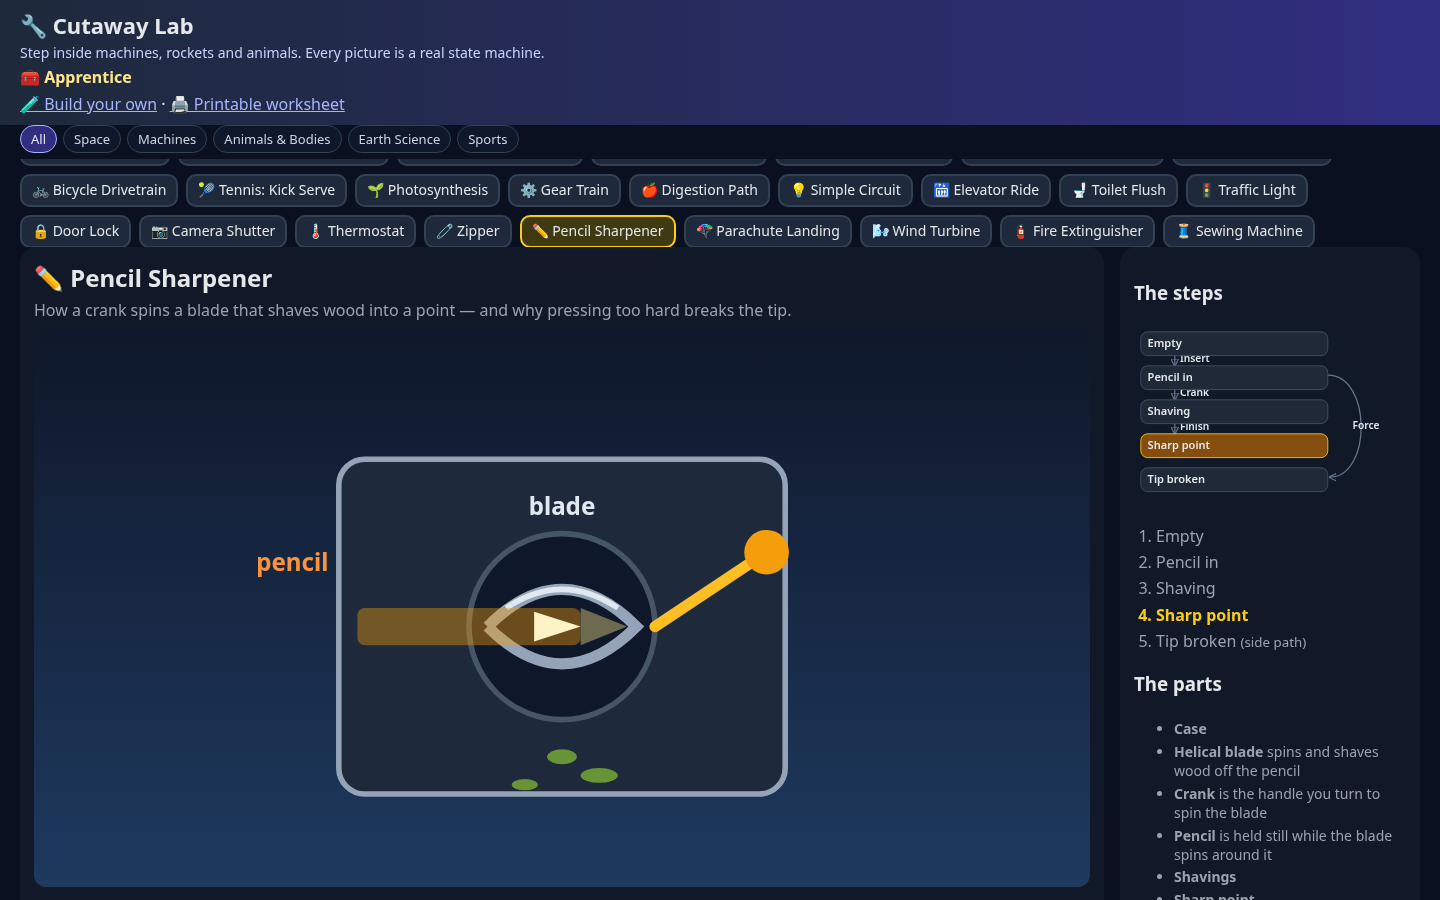
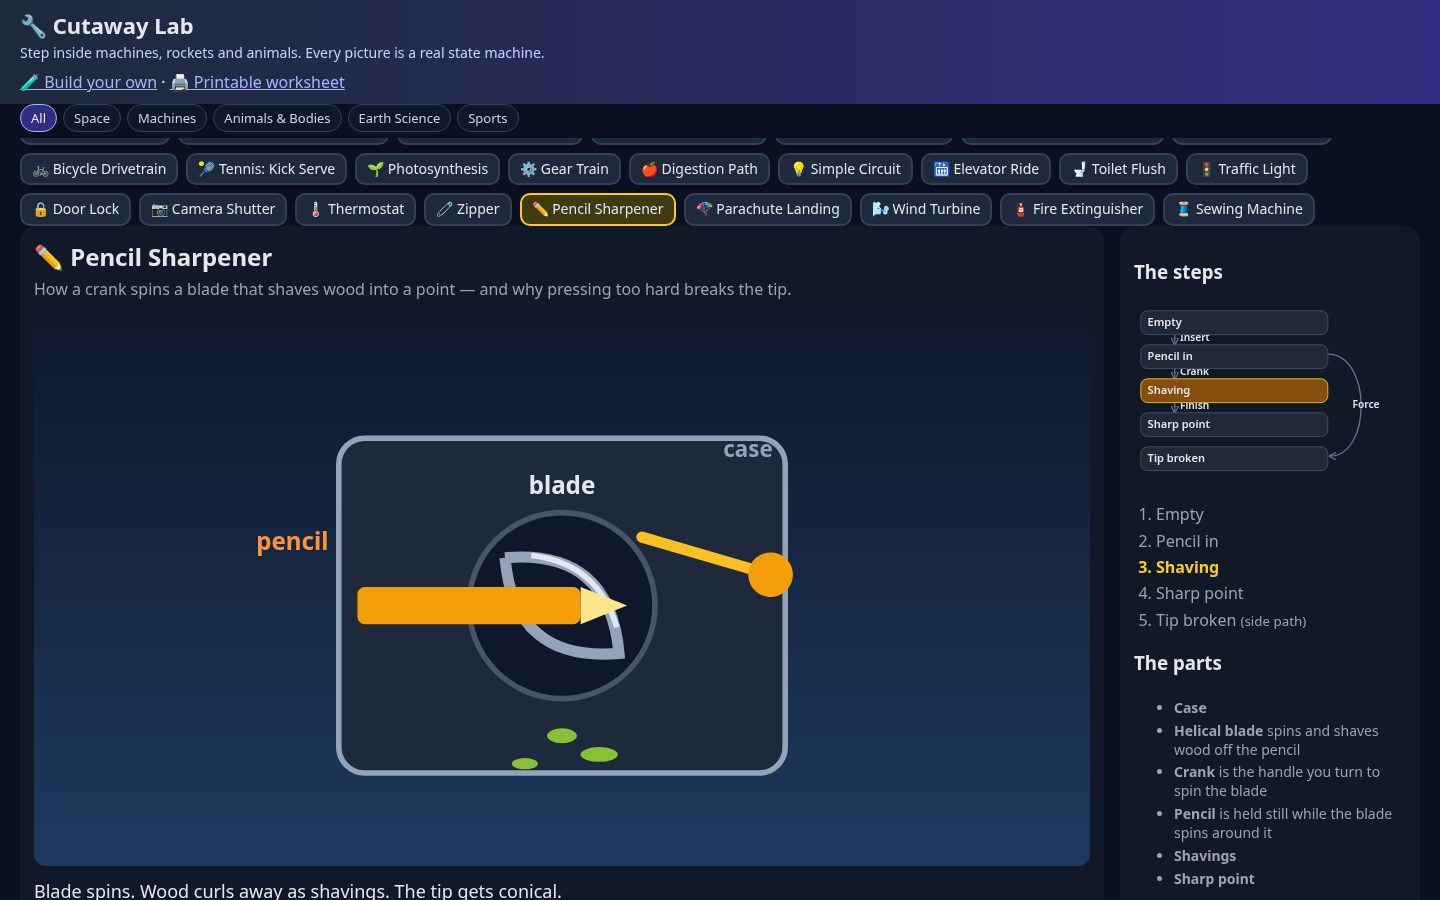
v1.0: stoplight signal + sharpener case captions

diff --git a/machines/sharpener.js b/machines/sharpener.js
@@ -5,6 +5,8 @@ export default {
   parts: [
     { id: 'case', label: 'Case',
       svg: '<rect x="80" y="70" width="240" height="180" rx="14" fill="#1e293b" stroke="#94a3b8" stroke-width="3"/><circle cx="200" cy="160" r="50" fill="#0f172a" stroke="#475569" stroke-width="3"/>' },
+    { id: 'lblCase', label: 'Case label',
+      svg: '<text x="300" y="80" text-anchor="middle" fill="#94a3b8" font-size="12" font-weight="700">case</text>' },
     { id: 'blade', label: 'Helical blade', job: 'spins and shaves wood off the pencil',
       svg: '<path d="M160 160 Q200 120 240 160 Q200 200 160 160" fill="none" stroke="#94a3b8" stroke-width="6"/><path d="M170 150 Q200 130 230 150" fill="none" stroke="#e2e8f0" stroke-width="3"/>', explode: [0, -40] },
     { id: 'lblBlade', label: 'Blade label',

diff --git a/machines/stoplight.js b/machines/stoplight.js
@@ -7,6 +7,8 @@ export default {
       svg: '<rect x="185" y="40" width="30" height="260" rx="4" fill="#334155"/>' },
     { id: 'housing', label: 'Housing', job: 'holds the three lamps in order',
       svg: '<rect x="160" y="50" width="80" height="200" rx="12" fill="#1e293b" stroke="#94a3b8" stroke-width="3"/>', explode: [50, 0] },
+    { id: 'lblHousing', label: 'Housing label',
+      svg: '<text x="120" y="250" text-anchor="middle" fill="#cbd5e1" font-size="12" font-weight="700">signal</text>' },
     { id: 'lblGo', label: 'Go label',
       svg: '<text x="280" y="100" fill="#86efac" font-size="13" font-weight="700">GO</text>', pose: { opacity: 0 } },
     { id: 'lblSlow', label: 'Slow label',
